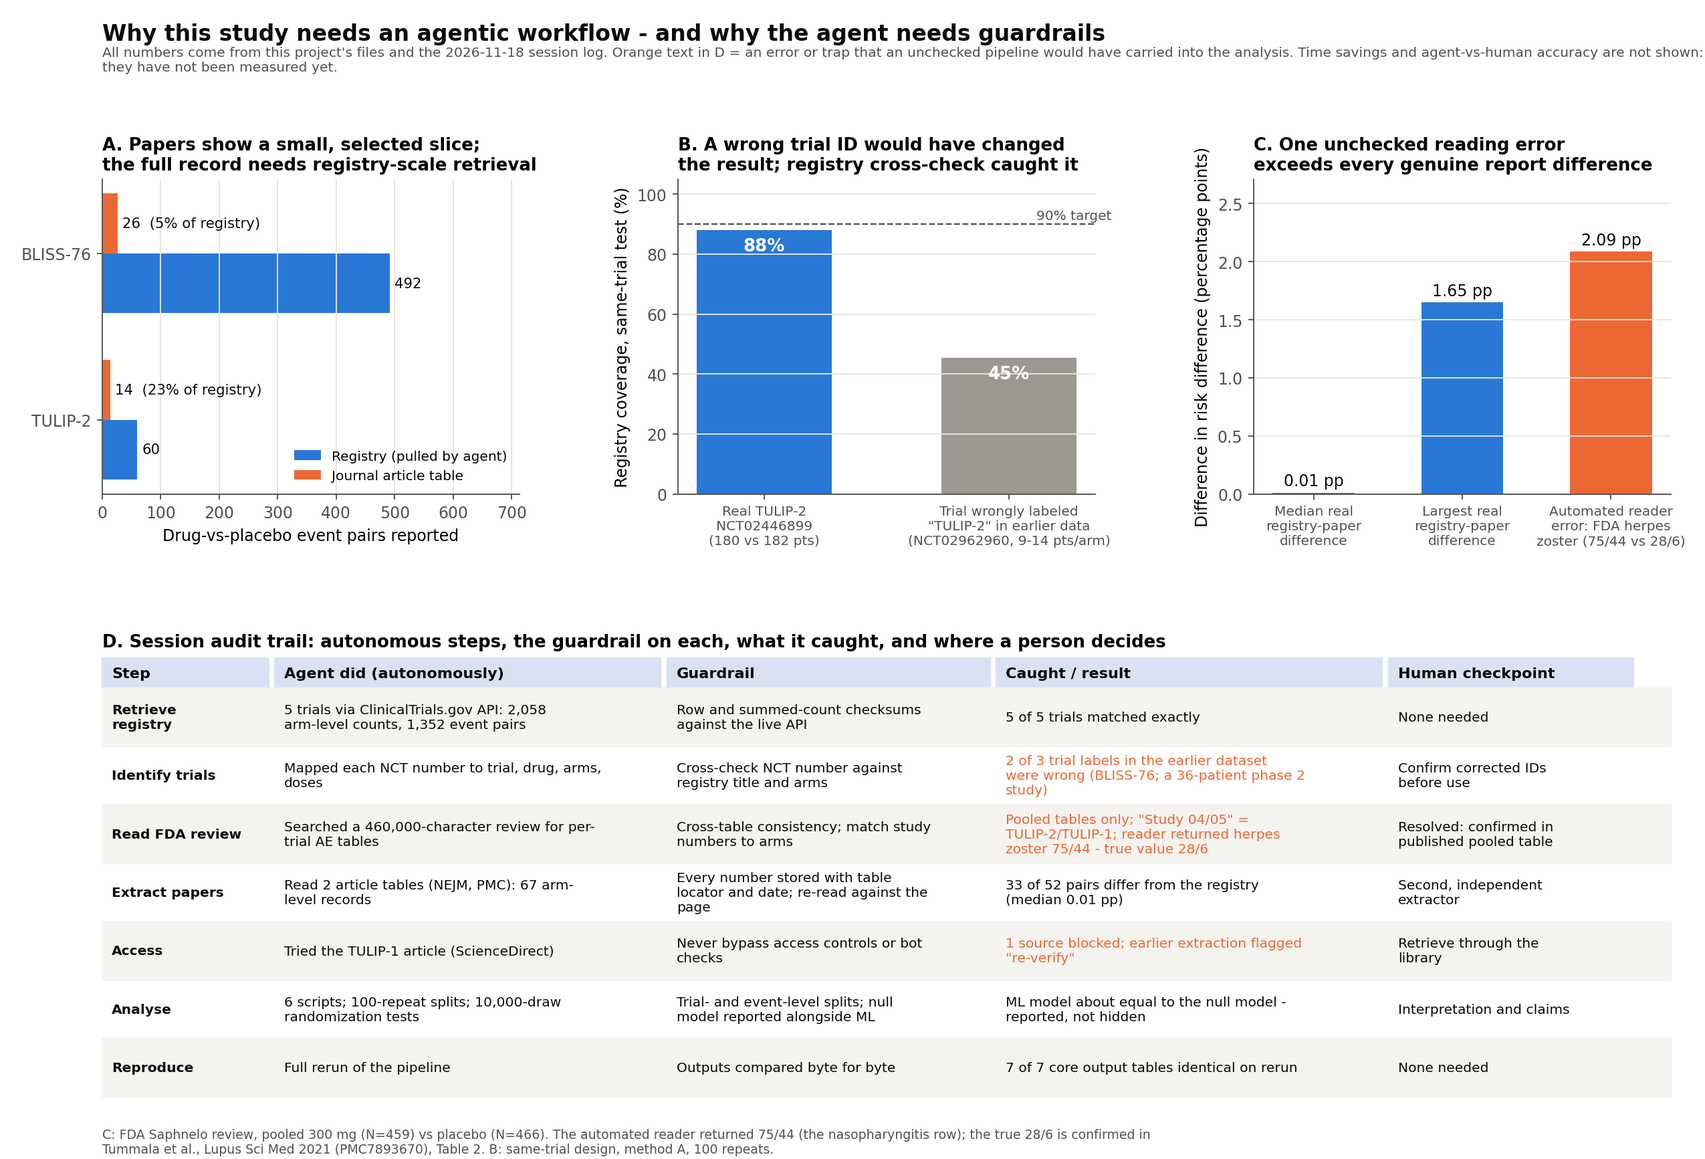
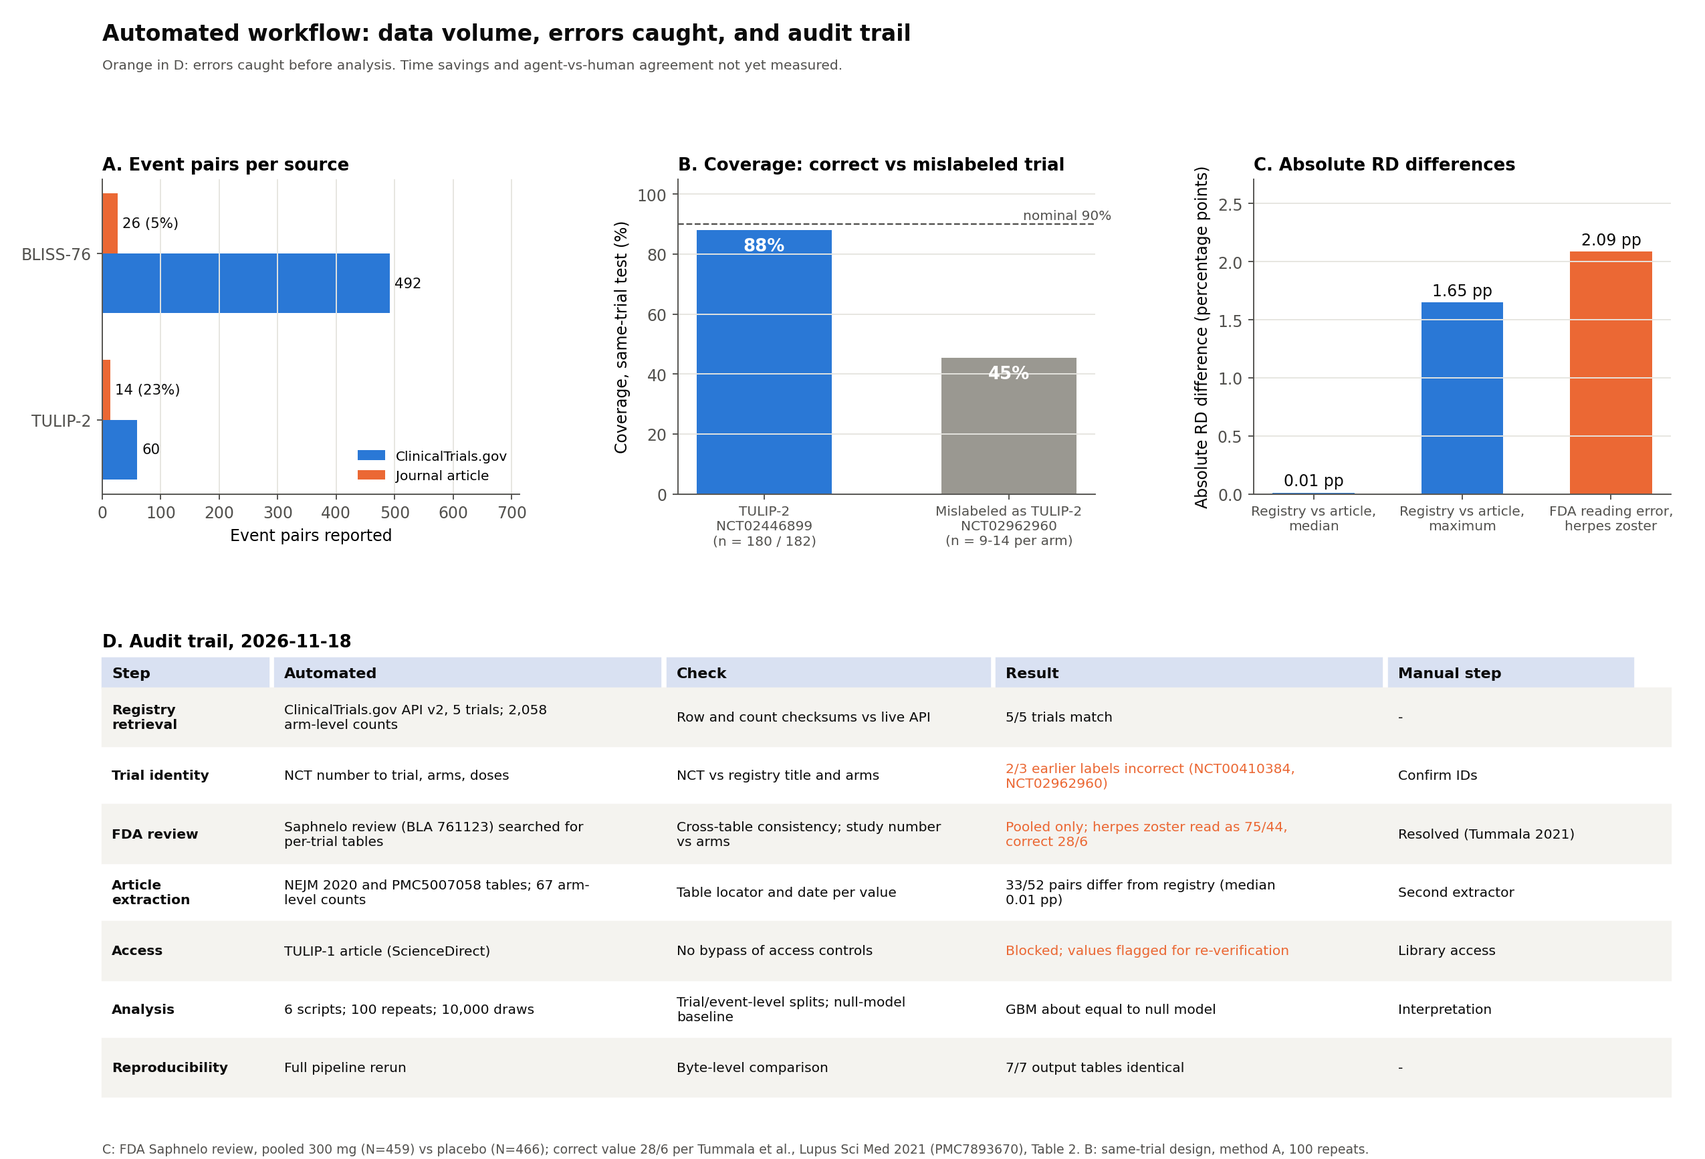
Tighten figure text: concise titles, labels and table entries

diff --git a/scripts/07_agentic_evidence_figure.py b/scripts/07_agentic_evidence_figure.py
@@ -31,46 +31,46 @@ gs = fig.add_gridspec(2, 3, height_ratios=[1, 1.45], hspace=.42, wspace=.38, lef
 
 # A. scale: what a paper-only extraction sees
 a = fig.add_subplot(gs[0, 0]); y = np.arange(len(tr)); h = .36
-a.barh(y + h / 2, reg, h, color=BLUE, label='Registry (pulled by agent)')
-a.barh(y - h / 2, pub, h, color=ORANGE, label='Journal article table')
+a.barh(y + h / 2, reg, h, color=BLUE, label='ClinicalTrials.gov')
+a.barh(y - h / 2, pub, h, color=ORANGE, label='Journal article')
 for i in range(len(tr)):
     a.text(reg[i] + 8, y[i] + h / 2, f'{reg[i]}', va='center', fontsize=9, color=INK)
-    a.text(pub[i] + 8, y[i] - h / 2, f'{pub[i]}  ({100 * pub[i] / reg[i]:.0f}% of registry)', va='center', fontsize=9, color=INK)
-a.set_yticks(y, tr); a.invert_yaxis(); a.set_xlim(0, max(reg) * 1.45); a.set_xlabel('Drug-vs-placebo event pairs reported')
+    a.text(pub[i] + 8, y[i] - h / 2, f'{pub[i]} ({100 * pub[i] / reg[i]:.0f}%)', va='center', fontsize=9, color=INK)
+a.set_yticks(y, tr); a.invert_yaxis(); a.set_xlim(0, max(reg) * 1.45); a.set_xlabel('Event pairs reported')
 a.grid(axis='x', color=GRID); a.legend(frameon=False, loc='lower right', fontsize=8.5)
-a.set_title('A. Papers show a small, selected slice;\nthe full record needs registry-scale retrieval', fontsize=11)
+a.set_title('A. Event pairs per source', fontsize=11)
 
 # B. consequence of a mislabeled trial
 b = fig.add_subplot(gs[0, 1])
 b.bar([0, 1], [cov_real, cov_mis], .55, color=[BLUE, GRAY])
 for i, v in enumerate([cov_real, cov_mis]): b.text(i, v - 7, f'{v:.0f}%', ha='center', fontsize=11, color='white', fontweight='bold')
-b.set_xticks([0, 1], ['Real TULIP-2\nNCT02446899\n(180 vs 182 pts)', 'Trial wrongly labeled\n"TULIP-2" in earlier data\n(NCT02962960, 9-14 pts/arm)'], fontsize=8.5)
-b.axhline(90, color=INK2, ls='--', lw=1); b.text(1.42, 91.5, '90% target', ha='right', fontsize=8.5, color=INK2)
-b.set_ylim(0, 105); b.set_ylabel('Registry coverage, same-trial test (%)'); b.grid(axis='y', color=GRID)
-b.set_title('B. A wrong trial ID would have changed\nthe result; registry cross-check caught it', fontsize=11)
+b.set_xticks([0, 1], ['TULIP-2\nNCT02446899\n(n = 180 / 182)', 'Mislabeled as TULIP-2\nNCT02962960\n(n = 9-14 per arm)'], fontsize=8.5)
+b.axhline(90, color=INK2, ls='--', lw=1); b.text(1.42, 91.5, 'nominal 90%', ha='right', fontsize=8.5, color=INK2)
+b.set_ylim(0, 105); b.set_ylabel('Coverage, same-trial test (%)'); b.grid(axis='y', color=GRID)
+b.set_title('B. Coverage: correct vs mislabeled trial', fontsize=11)
 
 # C. consequence of unchecked automated PDF reading
 c = fig.add_subplot(gs[0, 2])
 vals = [med_real, max_real, pdf_gap]; cols = [BLUE, BLUE, ORANGE]
 c.bar([0, 1, 2], vals, .55, color=cols)
 for i, v in enumerate(vals): c.text(i, v + .06, f'{v:.2f} pp', ha='center', fontsize=10, color=INK)
-c.set_xticks([0, 1, 2], ['Median real\nregistry-paper\ndifference', 'Largest real\nregistry-paper\ndifference', 'Automated reader\nerror: FDA herpes\nzoster (75/44 vs 28/6)'], fontsize=8.5)
-c.set_ylabel('Difference in risk difference (percentage points)'); c.set_ylim(0, pdf_gap * 1.3); c.grid(axis='y', color=GRID)
-c.set_title('C. One unchecked reading error\nexceeds every genuine report difference', fontsize=11)
+c.set_xticks([0, 1, 2], ['Registry vs article,\nmedian', 'Registry vs article,\nmaximum', 'FDA reading error,\nherpes zoster'], fontsize=8.5)
+c.set_ylabel('Absolute RD difference (percentage points)'); c.set_ylim(0, pdf_gap * 1.3); c.grid(axis='y', color=GRID)
+c.set_title('C. Absolute RD differences', fontsize=11)
 
 # D. ledger: what the agent did autonomously, the guardrail, what it caught, the human checkpoint
 d = fig.add_subplot(gs[1, :]); d.axis('off')
-d.set_title('D. Session audit trail: autonomous steps, the guardrail on each, what it caught, and where a person decides', fontsize=11, loc='left')
-cols = ['Step', 'Agent did (autonomously)', 'Guardrail', 'Caught / result', 'Human checkpoint']
+d.set_title('D. Audit trail, 2026-11-18', fontsize=11, loc='left')
+cols = ['Step', 'Automated', 'Check', 'Result', 'Manual step']
 W = [.11, .25, .21, .25, .16]
 rows = [
- ['Retrieve registry', '5 trials via ClinicalTrials.gov API: 2,058 arm-level counts, 1,352 event pairs', 'Row and summed-count checksums against the live API', '5 of 5 trials matched exactly', 'None needed'],
- ['Identify trials', 'Mapped each NCT number to trial, drug, arms, doses', 'Cross-check NCT number against registry title and arms', '2 of 3 trial labels in the earlier dataset were wrong (BLISS-76; a 36-patient phase 2 study)', 'Confirm corrected IDs before use'],
- ['Read FDA review', 'Searched a 460,000-character review for per-trial AE tables', 'Cross-table consistency; match study numbers to arms', 'Pooled tables only; "Study 04/05" = TULIP-2/TULIP-1; reader returned herpes zoster 75/44 - true value 28/6', 'Resolved: confirmed in published pooled table'],
- ['Extract papers', 'Read 2 article tables (NEJM, PMC): 67 arm-level records', 'Every number stored with table locator and date; re-read against the page', f'{n_differ} of {n_pairs} pairs differ from the registry (median {med_real:.2f} pp)', 'Second, independent extractor'],
- ['Access', 'Tried the TULIP-1 article (ScienceDirect)', 'Never bypass access controls or bot checks', '1 source blocked; earlier extraction flagged "re-verify"', 'Retrieve through the library'],
- ['Analyse', '6 scripts; 100-repeat splits; 10,000-draw randomization tests', 'Trial- and event-level splits; null model reported alongside ML', 'ML model about equal to the null model - reported, not hidden', 'Interpretation and claims'],
- ['Reproduce', 'Full rerun of the pipeline', 'Outputs compared byte for byte', '7 of 7 core output tables identical on rerun', 'None needed'],
+ ['Registry retrieval', 'ClinicalTrials.gov API v2, 5 trials; 2,058 arm-level counts', 'Row and count checksums vs live API', '5/5 trials match', '-'],
+ ['Trial identity', 'NCT number to trial, arms, doses', 'NCT vs registry title and arms', '2/3 earlier labels incorrect (NCT00410384, NCT02962960)', 'Confirm IDs'],
+ ['FDA review', 'Saphnelo review (BLA 761123) searched for per-trial tables', 'Cross-table consistency; study number vs arms', 'Pooled only; herpes zoster read as 75/44, correct 28/6', 'Resolved (Tummala 2021)'],
+ ['Article extraction', 'NEJM 2020 and PMC5007058 tables; 67 arm-level counts', 'Table locator and date per value', f'{n_differ}/{n_pairs} pairs differ from registry (median {med_real:.2f} pp)', 'Second extractor'],
+ ['Access', 'TULIP-1 article (ScienceDirect)', 'No bypass of access controls', 'Blocked; values flagged for re-verification', 'Library access'],
+ ['Analysis', '6 scripts; 100 repeats; 10,000 draws', 'Trial/event-level splits; null-model baseline', 'GBM about equal to null model', 'Interpretation'],
+ ['Reproducibility', 'Full pipeline rerun', 'Byte-level comparison', '7/7 output tables identical', '-'],
 ]
 x0 = 0; xs = np.cumsum([0] + W[:-1])
 ytop, rh = .93, .128
@@ -86,9 +86,8 @@ for i, r in enumerate(rows):
         txt = '\n'.join(textwrap.wrap(v, wrapw[j]))
         col = ORANGE if (j == 3 and i in (1, 2, 4)) else INK
         d.text(xs[j] + .006, yy + rh / 2, txt, transform=d.transAxes, fontsize=8.6, va='center', color=col, fontweight='bold' if j == 0 else 'normal')
-fig.suptitle('Why this study needs an agentic workflow - and why the agent needs guardrails', x=.06, ha='left', fontsize=14, fontweight='bold', color=INK)
-fig.text(.06, .94, 'All numbers come from this project\'s files and the 2026-11-18 session log. Orange text in D = an error or trap that an unchecked pipeline would have carried into the analysis. '
-         'Time savings and agent-vs-human accuracy are not shown: they have not been measured yet.', fontsize=8.6, color=INK2, wrap=True)
-fig.text(.06, .005, 'C: FDA Saphnelo review, pooled 300 mg (N=459) vs placebo (N=466). The automated reader returned 75/44 (the nasopharyngitis row); the true 28/6 is confirmed in\nTummala et al., Lupus Sci Med 2021 (PMC7893670), Table 2. B: same-trial design, method A, 100 repeats.', fontsize=8, color=INK2)
+fig.suptitle('Automated workflow: data volume, errors caught, and audit trail', x=.06, ha='left', fontsize=14, fontweight='bold', color=INK)
+fig.text(.06, .94, 'Orange in D: errors caught before analysis. Time savings and agent-vs-human agreement not yet measured.', fontsize=8.6, color=INK2)
+fig.text(.06, .005, 'C: FDA Saphnelo review, pooled 300 mg (N=459) vs placebo (N=466); correct value 28/6 per Tummala et al., Lupus Sci Med 2021 (PMC7893670), Table 2. B: same-trial design, method A, 100 repeats.', fontsize=8, color=INK2)
 fig.savefig('../figures/agentic_workflow_evidence.png', dpi=170)
 print('saved', dict(reg=reg, pub=pub, cov_real=round(cov_real, 1), cov_mis=round(cov_mis, 1), pdf_gap=round(pdf_gap, 2), med=med_real, mx=max_real, n_differ=n_differ))

diff --git a/scripts/08_explainer_figure.py b/scripts/08_explainer_figure.py
@@ -22,14 +22,14 @@ fig.suptitle('Study overview: adverse-event risk differences for the same lupus 
 
 # ---------------- A. sources table ----------------
 a = fig.add_subplot(gs[0, :]); a.axis('off'); a.set_title('A. Trials and sources', loc='left')
-cols = ['Trial', 'Registry ID', 'Drug (arms vs placebo)', 'ClinicalTrials.gov\nevent pairs', 'Journal article (table; reporting rule)', 'Article\nevent pairs', 'FDA approval review']
+cols = ['Trial', 'Registry ID', 'Drug (arms vs placebo)', 'ClinicalTrials.gov\nevent pairs', 'Journal article (table; reporting rule)', 'Article\nevent pairs', 'FDA review']
 W = [.075, .085, .155, .09, .32, .065, .21]; xs = np.cumsum([0] + W[:-1])
 rows = [
- ['TULIP-1', 'NCT02446912', 'anifrolumab IV 150 / 300 mg', n_reg['TULIP-1'], 'Furie 2019, Lancet Rheumatol 1:e208-19 (6 terms; re-verify)', n_pub['TULIP-1'], 'Saphnelo approval review:\ntrials combined, no per-trial counts'],
- ['TULIP-2', 'NCT02446899', 'anifrolumab IV 300 mg', n_reg['TULIP-2'], 'Morand 2020, NEJM 382:211-21, Table 3 (AEs >5% in drug arm)', n_pub['TULIP-2'], 'Saphnelo approval review:\ntrials combined, no per-trial counts'],
- ['BLISS-76', 'NCT00410384', 'belimumab IV 1 / 10 mg/kg', n_reg['BLISS-76'], 'Furie 2011, Arthritis Rheum 63:3918-30, Table 3 (AEs >=10% any arm)', n_pub['BLISS-76'], 'Benlysta approval review:\nscanned pages, text not yet readable'],
- ['BLISS-52', 'NCT00424476', 'belimumab IV 1 / 10 mg/kg', n_reg['BLISS-52'], 'Navarra 2011, Lancet 377:721-31 (not extracted)', 0, 'Benlysta approval review:\nscanned pages, text not yet readable'],
- ['D3461C00008', 'NCT02962960', 'anifrolumab SC, phase 2 (n = 36)', n_reg['SC-phase2 (D3461C00008)'], 'Bruce 2021, Lancet Rheumatol 3:e101-10 (not extracted)', 0, 'None: this injection form was\nnot part of the 2021 approval'],
+ ['TULIP-1', 'NCT02446912', 'anifrolumab IV 150 / 300 mg', n_reg['TULIP-1'], 'Furie 2019, Lancet Rheumatol 1:e208-19*', n_pub['TULIP-1'], 'Saphnelo review (pooled)'],
+ ['TULIP-2', 'NCT02446899', 'anifrolumab IV 300 mg', n_reg['TULIP-2'], 'Morand 2020, NEJM 382:211-21, Table 3 (AEs >5% in drug arm)', n_pub['TULIP-2'], 'Saphnelo review (pooled)'],
+ ['BLISS-76', 'NCT00410384', 'belimumab IV 1 / 10 mg/kg', n_reg['BLISS-76'], 'Furie 2011, Arthritis Rheum 63:3918-30, Table 3 (AEs >=10% any arm)', n_pub['BLISS-76'], 'Benlysta review'],
+ ['BLISS-52', 'NCT00424476', 'belimumab IV 1 / 10 mg/kg', n_reg['BLISS-52'], 'Navarra 2011, Lancet 377:721-31', 0, 'Benlysta review'],
+ ['D3461C00008', 'NCT02962960', 'anifrolumab SC, phase 2 (n = 36)', n_reg['SC-phase2 (D3461C00008)'], 'Bruce 2021, Lancet Rheumatol 3:e101-10', 0, '-'],
 ]
 top, rh = .93, .155
 for j, c in enumerate(cols):
@@ -42,11 +42,9 @@ for i, r in enumerate(rows):
         a.text(xs[j] + .005, y + rh / 2, str(v), transform=a.transAxes, fontsize=9, va='center', color=INK2 if i > 2 else INK,
                fontweight='bold' if j == 0 else 'normal')
 a.text(0, top - .12 - 5 * rh - .3,
-       'Event pair = one adverse-event term (MedDRA) x one active arm vs placebo x seriousness category.  '
-       'Risk difference (RD) = proportion with the event on drug - proportion on placebo.\n'
-       'FDA approval review = the document in which the U.S. Food and Drug Administration evaluated the trials before approving the drug '
-       '(Saphnelo: BLA 761123, 2021; Benlysta: BLA 125370, 2011).\n'
-       'BLISS-52 and D3461C00008 are used for training and calibration only.', transform=a.transAxes, fontsize=8.6, color=INK2, linespacing=1.5)
+       'Event pair: MedDRA term x active arm x seriousness.  RD: incidence on drug - incidence on placebo.  '
+       'FDA review: Saphnelo BLA 761123 (2021); Benlysta BLA 125370 (2011).\n'
+       'BLISS-52 and D3461C00008: training and calibration only (no article pairs).  * Pending re-verification.', transform=a.transAxes, fontsize=8.6, color=INK2, linespacing=1.5)
 
 # ---------------- B. registry RD vs article RD, coloured by coverage ----------------
 b = fig.add_subplot(gs[1, 0]); R = E[E.reported].copy()
@@ -54,8 +52,8 @@ R['x'], R['y'] = 100 * R.rd, 100 * R.rd_pub
 cov = R.cov_ct >= .5
 lim = (-7, 14.5)
 b.plot(lim, lim, color=INK2, lw=1, ls='--', zorder=1)
-b.scatter(R.x[cov], R.y[cov], s=34, color=BLUE, zorder=3, label=f'Inside the 90% interval in most repeats (n={cov.sum()})', edgecolor='white', linewidth=.6)
-b.scatter(R.x[~cov], R.y[~cov], s=40, color=RED, zorder=4, label=f'Outside the 90% interval in most repeats (n={(~cov).sum()})', edgecolor='white', linewidth=.6)
+b.scatter(R.x[cov], R.y[cov], s=34, color=BLUE, zorder=3, label=f'Covered (n={cov.sum()})', edgecolor='white', linewidth=.6)
+b.scatter(R.x[~cov], R.y[~cov], s=40, color=RED, zorder=4, label=f'Not covered (n={(~cov).sum()})', edgecolor='white', linewidth=.6)
 lab = {('TULIP-2', 'Upper respiratory tract infection', 'Anifrolumab 300 mg'): ('TULIP-2 URTI, 300 mg', 4.0, 13.3),
        ('TULIP-2', 'Bronchitis', 'Anifrolumab 300 mg'): ('TULIP-2 bronchitis, 300 mg', 9.3, 6.6),
        ('TULIP-1', 'Upper respiratory tract infection', 'Anifrolumab 150 mg'): ('TULIP-1 URTI, 150 mg', 9.3, 4.9),
@@ -71,12 +69,12 @@ b.set_xlim(lim); b.set_ylim(lim)
 b.axhline(0, color=GRID, lw=.8, zorder=0); b.axvline(0, color=GRID, lw=.8, zorder=0)
 b.set_xlabel('Risk difference in ClinicalTrials.gov (percentage points)'); b.set_ylabel('Risk difference in the journal article (percentage points)')
 b.grid(color=GRID, lw=.5); b.legend(frameon=False, loc='lower right', fontsize=8.5)
-b.set_title('B. 52 event pairs in both sources: the values agree\n(dashed line = identical); misses are the large risk differences', fontsize=10.5)
+b.set_title('B. Registry vs article risk difference (52 event pairs)', fontsize=10.5)
 
 # ---------------- C. coverage by event frequency ----------------
 c = fig.add_subplot(gs[1, 1]); lab_bins = list(B.fbin); xx = np.arange(len(B)); w = .38
-c.bar(xx - w / 2, 100 * B.cov_all, w, color=BLUE, label='All ClinicalTrials.gov event pairs (n = 1,352)')
-c.bar(xx + w / 2, 100 * B.cov_paper_registry.fillna(0), w, color=ORANGE, label='Event pairs reported in the article (n = 52)')
+c.bar(xx - w / 2, 100 * B.cov_all, w, color=BLUE, label='All registry event pairs (n = 1,352)')
+c.bar(xx + w / 2, 100 * B.cov_paper_registry.fillna(0), w, color=ORANGE, label='Article-reported event pairs (n = 52)')
 for i, r in B.iterrows():
     c.text(i - w / 2, 100 * r.cov_all + 1.5, f'{100 * r.cov_all:.0f}%\nn={r.n_all}', ha='center', fontsize=8, color=INK)
     if r.n_paper == r.n_paper and r.n_paper > 0:
@@ -85,12 +83,12 @@ c.axhline(90, color=INK2, ls='--', lw=1); c.text(len(B) - .5, 91.5, 'nominal 90%
 c.set_xticks(xx, [f'{b_}' for b_ in lab_bins]); c.set_xlabel('Event frequency: higher of the two arms\' incidence (ClinicalTrials.gov)')
 c.set_ylabel('Coverage of 90% conformal interval (%)'); c.set_ylim(0, 135); c.set_yticks(range(0, 101, 20)); c.grid(axis='y', color=GRID)
 c.legend(frameon=False, loc='upper right', fontsize=8.5)
-c.set_title('C. Coverage falls as events get more frequent;\n48 of the 52 article pairs have frequency >= 5%', fontsize=10.5)
+c.set_title('C. Coverage by event frequency', fontsize=10.5)
 
 fig.text(.055, .045, f'Method: model trained and calibrated on ClinicalTrials.gov only; event-level 5-fold split within trials; split-conformal 90% interval (alpha = 0.10).\n'
          f'Coverage over 100 repeats: all registry pairs {100 * g.cov_all_registry:.1f}%; article-reported pairs {100 * g.cov_paper_events_registry_values:.1f}% using registry RD, '
          f'{100 * g.cov_paper_events_paper_values:.1f}% using article RD.', fontsize=8.6, color=INK, wrap=True)
-fig.text(.055, .012, 'B and C use 40 repeats (scripts/06). Sources: ClinicalTrials.gov API v2 (retrieved 2026-11-18); article tables as listed in A. TULIP-1 article values await re-verification.',
+fig.text(.055, .012, 'B and C: 40 repeats; covered = inside the interval in most repeats. Sources: ClinicalTrials.gov API v2 (retrieved 2026-11-18); article tables as listed in A.',
          fontsize=8, color=INK2)
 fig.savefig('../figures/explainer.png', dpi=170)
 print('saved; reported pairs >=5%:', int((R.freq >= .05).sum()), 'of', len(R), '| misses:', int((~cov).sum()))

diff --git a/scripts/06_selection_proof.py b/scripts/06_selection_proof.py
@@ -99,36 +99,36 @@ fig, ax = plt.subplots(1, 3, figsize=(15, 4.9), gridspec_kw=dict(width_ratios=[1
 fig.patch.set_facecolor('white')
 # A: coverage vs frequency
 a = ax[0]; xs = np.arange(len(LAB)); w = .36
-a.bar(xs - w / 2, 100 * by_bin.cov_all, w, color=BLUE, label='All registry events', zorder=3)
-a.bar(xs + w / 2, 100 * by_bin.cov_paper_registry.fillna(0), w, color=ORANGE, label='Events the paper reports', zorder=3)
-a.axhline(90, color=INK2, lw=1, ls='--', zorder=2); a.text(len(LAB) - .45, 86, '90% target', ha='right', color=INK2, fontsize=9)
+a.bar(xs - w / 2, 100 * by_bin.cov_all, w, color=BLUE, label='All registry event pairs', zorder=3)
+a.bar(xs + w / 2, 100 * by_bin.cov_paper_registry.fillna(0), w, color=ORANGE, label='Article-reported event pairs', zorder=3)
+a.axhline(90, color=INK2, lw=1, ls='--', zorder=2); a.text(len(LAB) - .45, 86, 'nominal 90%', ha='right', color=INK2, fontsize=9)
 for i, r in enumerate(by_bin.itertuples()):
     a.text(i - w / 2, 2, f'n={r.n_all}', ha='center', va='bottom', fontsize=8, color='white', zorder=4)
     if r.n_paper == r.n_paper and r.n_paper > 0:
         a.text(i + w / 2, 2, f'n={int(r.n_paper)}', ha='center', va='bottom', fontsize=8, color='white', zorder=4)
 a.set_xticks(xs, LAB); a.set_xlabel('Event frequency (higher arm incidence, registry)'); a.set_ylabel('Coverage of 90% interval (%)')
 a.set_ylim(0, 118); a.set_yticks([0,20,40,60,80,100]); a.grid(axis='y', color=GRID, zorder=0); a.legend(frameon=False, loc='upper center', ncol=2, fontsize=9)
-a.set_title('A. Coverage falls as events get more common')
+a.set_title('A. Coverage by event frequency')
 # B: where events sit
 b = ax[1]
-for lab, sel, col in [('Events no paper reports', ~C.reported, BLUE), ('Events the paper reports', C.reported, ORANGE)]:
+for lab, sel, col in [('Not reported', ~C.reported, BLUE), ('Reported', C.reported, ORANGE)]:
     v = np.sort(100 * C.loc[sel, 'freq'].values); b.step(v, np.arange(1, len(v) + 1) / len(v) * 100, where='post', color=col, lw=2, label=f'{lab} (n={len(v)})')
 for t in (5, 10):
     b.axvline(t, color=INK2, lw=1, ls=':'); b.text(t + .4, 4, f'{t}%', color=INK2, fontsize=9)
 b.set_xscale('symlog', linthresh=1); b.set_xlim(0, 60); b.set_xticks([0, 1, 2, 5, 10, 20, 50], ['0', '1', '2', '5', '10', '20', '50'])
 b.set_xlabel('Event frequency, % (log scale)'); b.set_ylabel('Cumulative share of events (%)'); b.grid(color=GRID)
 b.legend(frameon=False, loc='upper left', fontsize=9)
-b.set_title(f'B. Papers report the common events\n{stats["pct_paper_events_freq_ge5"]:.0f}% of reported vs {stats["pct_other_events_freq_ge5"]:.0f}% of others are >=5%', fontsize=11)
+b.set_title(f'B. Event frequency distribution\n(>=5%: {stats["pct_paper_events_freq_ge5"]:.0f}% reported vs {stats["pct_other_events_freq_ge5"]:.0f}% not reported)', fontsize=11)
 # C: randomization test
 c = ax[2]; bins = np.linspace(.55, 1.05, 51)
-c.hist(100 * null1, bins=100 * bins, color=BLUE, alpha=.85, label='Null 1: random 52 events,\nsame trials & seriousness')
-c.hist(100 * null2, bins=100 * bins, color=AQUA, alpha=.85, label='Null 2: random 52 unreported\nevents, same frequency\n& seriousness')
+c.hist(100 * null1, bins=100 * bins, color=BLUE, alpha=.85, label='Null 1: matched on trial\nand seriousness')
+c.hist(100 * null2, bins=100 * bins, color=AQUA, alpha=.85, label='Null 2: unreported pairs,\nmatched on frequency\nand seriousness')
 c.axvline(100 * obs_ct, color=ORANGE, lw=2.5); c.axvline(100 * obs_pub, color=ORANGE, lw=1.5, ls='--')
-c.text(91, c.get_ylim()[1] * .97, f'Orange: the paper\'s 52 events\nregistry values {100 * obs_ct:.1f}% (solid)\npaper values {100 * obs_pub:.1f}% (dashed)', ha='left', va='top', fontsize=9, color=INK)
-c.set_xlabel('Coverage of a set of 52 events (%)'); c.set_ylabel(f'Count of {NDRAW:,} random draws'); c.grid(axis='y', color=GRID)
+c.text(91, c.get_ylim()[1] * .97, f'Observed (52 pairs)\nregistry RD: {100 * obs_ct:.1f}%\narticle RD: {100 * obs_pub:.1f}% (dashed)', ha='left', va='top', fontsize=9, color=INK)
+c.set_xlabel('Coverage, 52 event pairs (%)'); c.set_ylabel(f'Count of {NDRAW:,} random draws'); c.grid(axis='y', color=GRID)
 c.legend(frameon=False, loc='center right', bbox_to_anchor=(1.0, .45), fontsize=8.5); c.set_xlim(52, 122); c.set_xticks([60,70,80,90,100])
-c.set_title(f'C. Not a random sample (p = {p1:.3f}),\nbut matches a frequency-matched one', fontsize=11)
-fig.suptitle('Within a trial, registry-calibrated intervals fail on the paper\'s events because papers report the common events, not because their numbers differ',
+c.set_title(f'C. Randomization test, {NDRAW:,} draws\n(null 1: p = {p1:.3f}; null 2: p = {p2_two:.2f})', fontsize=11)
+fig.suptitle('Coverage of registry-calibrated 90% conformal intervals on article-reported event pairs',
              x=.01, ha='left', fontsize=12, fontweight='bold', color=INK)
 fig.text(.01, .005, f'Model trained and calibrated on ClinicalTrials.gov, event-level 5-fold split within trials, {R} repeats, one conformal margin (alpha=0.10). '
          f'Paper events: 52 from TULIP-1, TULIP-2, BLISS-76. All registry events: {len(C)} from 5 trials. Null 2 pool: phase 3 trials only.', fontsize=8, color=INK2)
